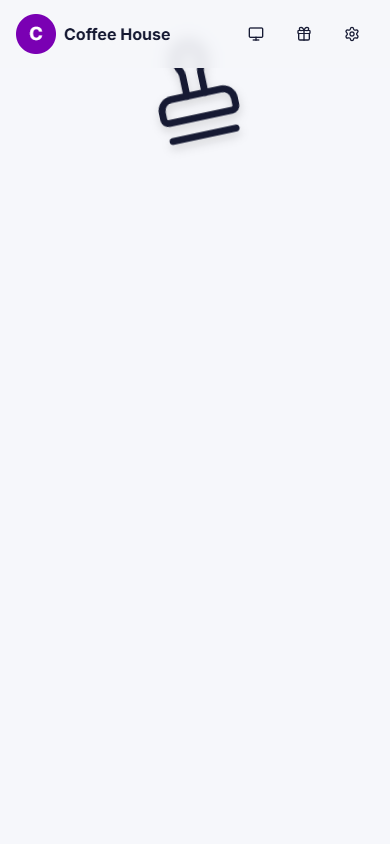
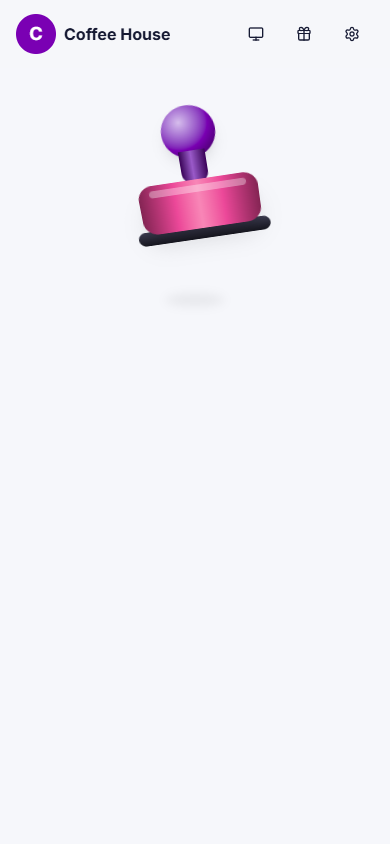
feat: colored CSS 3D stamp animation contained below the header

Changed region(s): [[0.3385, 0.0616, 0.7077, 0.3081]]

diff --git a/frontend/src/customer/pages/TapPage.tsx b/frontend/src/customer/pages/TapPage.tsx
@@ -1,5 +1,5 @@
 import { useMutation, useQuery, useQueryClient } from '@tanstack/react-query';
-import { Hourglass, LoaderCircle, MapPin, Nfc, Stamp, Star, TimerReset, TriangleAlert } from 'lucide-react';
+import { Hourglass, LoaderCircle, MapPin, Nfc, Star, TimerReset, TriangleAlert } from 'lucide-react';
 import { useEffect, useRef, useState, type ReactNode } from 'react';
 import { useTranslation } from 'react-i18next';
 import { Link, useParams, useSearchParams } from 'react-router';
@@ -110,7 +110,7 @@ function Claim({ token, branch }: { token: string; branch: string }) {
 }
 
 /** Möhür animasiyasının uzunluğu (damğa enir, kağıza vurulur, iz qalır). */
-const STAMP_ANIMATION_MS = 2200;
+const STAMP_ANIMATION_MS = 2400;
 
 /**
  * Möhür vurulandan sonrakı ekran: damğa animasiyası, "Möhür əlavə olundu!" və konfeti. Kart və digər bölmələr ana
@@ -127,7 +127,7 @@ function ClaimSuccess({ result, branch }: { result: ClaimResult; branch: string 
     if (pending) {
       return undefined;
     }
-    const timer = window.setTimeout(() => setImpact(true), 1100);
+    const timer = window.setTimeout(() => setImpact(true), 1250);
     return () => window.clearTimeout(timer);
   }, [pending]);
 
@@ -141,7 +141,7 @@ function ClaimSuccess({ result, branch }: { result: ClaimResult; branch: string 
       ) : (
         <StampImpression />
       )}
-      <section className="animate-fade-up flex flex-col items-center gap-2" style={pending ? undefined : { animationDelay: '1.3s' }}>
+      <section className="animate-fade-up flex flex-col items-center gap-2" style={pending ? undefined : { animationDelay: '1.45s' }}>
         <h1 className="text-2xl font-bold">{pending ? t('tap.pending') : t('tap.stamped')}</h1>
         {pending ? <p className="text-muted-foreground">{t('tap.pendingHint')}</p> : null}
         {branch ? (
@@ -151,7 +151,7 @@ function ClaimSuccess({ result, branch }: { result: ClaimResult; branch: string 
           </p>
         ) : null}
       </section>
-      <Button asChild size="lg" className="animate-fade-up w-full" style={pending ? undefined : { animationDelay: '1.6s' }}>
+      <Button asChild size="lg" className="animate-fade-up w-full" style={pending ? undefined : { animationDelay: '1.75s' }}>
         <Link to={completed ? '/gift-cards' : '/'}>{completed ? t('celebrate.open') : t('tap.home')}</Link>
       </Button>
     </div>
@@ -159,23 +159,34 @@ function ClaimSuccess({ result, branch }: { result: ClaimResult; branch: string 
 }
 
 /**
- * Damğa animasiyası (~2,2 san): möhür yuxarıdan enir, kağıza vurulur (kiçik silkələnmə və mürəkkəb dalğası),
- * qalxıb gedir, yerində şirkətin rəngində möhür izi qalır.
+ * 3D damğa animasiyası (~2,4 san, yalnız CSS): şirkətin rəngində möhür perspektivdə enir, kağıza vurulur (sıxılır,
+ * kölgə böyüyür, mürəkkəb dalğası), qalxıb gedir; masanın üstündə rəngli möhür izi qalır. Bütün hərəkət öz
+ * sahəsinin içindədir — header-ə çıxmır.
  */
 function StampImpression() {
   return (
-    <div className="animate-stamp-shake relative grid size-40 place-items-center" aria-hidden="true">
-      {/* Kağızda qalan iz */}
-      <span className="animate-stamp-imprint absolute inset-3 grid place-items-center rounded-full border-4 border-primary text-primary">
-        <span className="absolute inset-2 rounded-full border-2 border-dashed border-primary/70" />
-        <Star className="size-14" fill="currentColor" />
-      </span>
-      {/* Mürəkkəb dalğası */}
-      <span className="animate-stamp-ink absolute inset-3 rounded-full border-4 border-primary" />
-      {/* Damğanın özü */}
-      <span className="animate-stamp-press absolute inset-0 grid place-items-center text-foreground">
-        <Stamp className="size-24 drop-shadow-lg" strokeWidth={1.5} />
-      </span>
+    <div className="animate-stamp-shake relative h-64 w-60 [perspective:800px]" aria-hidden="true">
+      {/* Kağız (perspektivdə yatıq) və onun üstündə qalan iz */}
+      <div className="absolute inset-x-0 bottom-0 h-32 [transform-style:preserve-3d]">
+        <div className="absolute left-1/2 top-1/2 size-40 -translate-x-1/2 -translate-y-1/2 [transform:rotateX(58deg)]">
+          <span className="animate-stamp-imprint absolute inset-0 grid place-items-center rounded-full border-[6px] border-primary text-primary">
+            <span className="absolute inset-3 rounded-full border-2 border-dashed border-primary/70" />
+            <Star className="size-16" fill="currentColor" />
+          </span>
+          <span className="animate-stamp-ink absolute inset-0 rounded-full border-4 border-primary" />
+        </div>
+      </div>
+      {/* Damğanın kağızdakı kölgəsi */}
+      <span className="animate-stamp-shadow absolute bottom-10 left-1/2 h-8 w-36 rounded-[50%] bg-black/40 blur-md" />
+      {/* Damğa: tutacaq, boyun, gövdə, rezin altlıq */}
+      <div className="animate-stamp-press3d absolute left-1/2 top-0 -ml-16 flex w-32 flex-col items-center [transform-style:preserve-3d]">
+        <span className="stamp-knob size-14 rounded-full shadow-lg" />
+        <span className="stamp-neck -mt-2 h-9 w-7 rounded-b-md" />
+        <span className="stamp-body relative -mt-1 h-14 w-32 rounded-2xl shadow-xl">
+          <span className="absolute inset-x-3 top-1.5 h-2 rounded-full bg-white/35" />
+        </span>
+        <span className="stamp-pad -mt-1 h-4 w-36 rounded-md" />
+      </div>
     </div>
   );
 }

diff --git a/frontend/src/shared/styles/globals.css b/frontend/src/shared/styles/globals.css
@@ -191,46 +191,85 @@ input::-ms-clear {
   display: none;
 }
 
-/* Möhür ekranı: damğa enir (0–1,1 san), kağıza vurulur, qalxıb gedir; iz və mürəkkəb dalğası vurulma anında */
-@keyframes stamp-press {
+/* Möhür ekranı (3D, yalnız CSS): damğa enir (0–1,25 san), kağıza vurulur, qalxıb gedir; iz və dalğa vurulma anında */
+.stamp-knob {
+  background: radial-gradient(circle at 35% 30%, color-mix(in oklab, white 70%, var(--primary)),
+    var(--primary) 55%, color-mix(in oklab, black 45%, var(--primary)));
+}
+
+.stamp-neck {
+  background: linear-gradient(90deg, color-mix(in oklab, black 40%, var(--primary)),
+    color-mix(in oklab, white 25%, var(--primary)) 45%, color-mix(in oklab, black 40%, var(--primary)));
+}
+
+.stamp-body {
+  background: linear-gradient(90deg, color-mix(in oklab, black 35%, var(--accent)), var(--accent) 30%,
+    color-mix(in oklab, white 30%, var(--accent)) 50%, var(--accent) 70%, color-mix(in oklab, black 35%, var(--accent)));
+}
+
+.stamp-pad {
+  background: linear-gradient(180deg, #3b3b4f, #16161f);
+}
+
+@keyframes stamp-press3d {
   0% {
-    transform: translateY(-140px) rotate(-18deg) scale(1.15);
+    transform: translateY(-8px) rotateX(-28deg) rotateZ(-14deg) scale(0.85);
     opacity: 0;
   }
-  20% {
-    transform: translateY(-90px) rotate(-12deg) scale(1.15);
+  18% {
+    transform: translateY(0) rotateX(-22deg) rotateZ(-9deg) scale(0.95);
     opacity: 1;
   }
   42% {
-    transform: translateY(-100px) rotate(-14deg) scale(1.2);
+    transform: translateY(-14px) rotateX(-18deg) rotateZ(-11deg) scale(0.97);
   }
-  50% {
-    transform: translateY(0) rotate(-6deg) scale(1);
+  52% {
+    transform: translateY(58px) rotateX(0deg) rotateZ(0deg) scale(1);
   }
-  56% {
-    transform: translateY(0) rotate(-6deg) scale(1.06, 0.88);
+  57% {
+    transform: translateY(64px) rotateX(0deg) rotateZ(0deg) scale(1.05, 0.9);
   }
-  66% {
-    transform: translateY(0) rotate(-6deg) scale(1);
+  68% {
+    transform: translateY(58px) rotateX(0deg) rotateZ(0deg) scale(1);
     opacity: 1;
   }
   100% {
-    transform: translateY(-170px) rotate(8deg) scale(1.1);
+    transform: translateY(-24px) rotateX(-20deg) rotateZ(10deg) scale(0.9);
+    opacity: 0;
+  }
+}
+
+@keyframes stamp-shadow {
+  0% {
+    transform: translateX(-50%) scale(0.35);
+    opacity: 0;
+  }
+  42% {
+    transform: translateX(-50%) scale(0.45);
+    opacity: 0.25;
+  }
+  52%,
+  68% {
+    transform: translateX(-50%) scale(1);
+    opacity: 0.55;
+  }
+  100% {
+    transform: translateX(-50%) scale(0.3);
     opacity: 0;
   }
 }
 
 @keyframes stamp-imprint {
   0%,
-  49% {
-    transform: scale(1.25) rotate(-12deg);
+  51% {
+    transform: scale(1.2) rotate(-12deg);
     opacity: 0;
   }
-  55% {
+  57% {
     transform: scale(0.96) rotate(-12deg);
     opacity: 1;
   }
-  70%,
+  72%,
   100% {
     transform: scale(1) rotate(-12deg);
     opacity: 1;
@@ -239,11 +278,11 @@ input::-ms-clear {
 
 @keyframes stamp-ink {
   0%,
-  50% {
+  52% {
     transform: scale(1);
     opacity: 0;
   }
-  52% {
+  54% {
     opacity: 0.6;
   }
   100% {
@@ -254,34 +293,38 @@ input::-ms-clear {
 
 @keyframes stamp-shake {
   0%,
-  49%,
-  66%,
+  51%,
+  68%,
   100% {
     transform: translate(0, 0);
   }
-  52% {
+  54% {
     transform: translate(-3px, 2px);
   }
-  56% {
+  58% {
     transform: translate(3px, -1px);
   }
-  60% {
+  62% {
     transform: translate(-2px, 1px);
   }
 }
 
-@utility animate-stamp-press {
-  animation: stamp-press 2.2s cubic-bezier(0.5, 0, 0.3, 1) both;
+@utility animate-stamp-press3d {
+  animation: stamp-press3d 2.4s cubic-bezier(0.5, 0, 0.3, 1) both;
+}
+
+@utility animate-stamp-shadow {
+  animation: stamp-shadow 2.4s cubic-bezier(0.5, 0, 0.3, 1) both;
 }
 
 @utility animate-stamp-imprint {
-  animation: stamp-imprint 2.2s ease-out both;
+  animation: stamp-imprint 2.4s ease-out both;
 }
 
 @utility animate-stamp-ink {
-  animation: stamp-ink 2.2s ease-out both;
+  animation: stamp-ink 2.4s ease-out both;
 }
 
 @utility animate-stamp-shake {
-  animation: stamp-shake 2.2s linear both;
+  animation: stamp-shake 2.4s linear both;
 }
